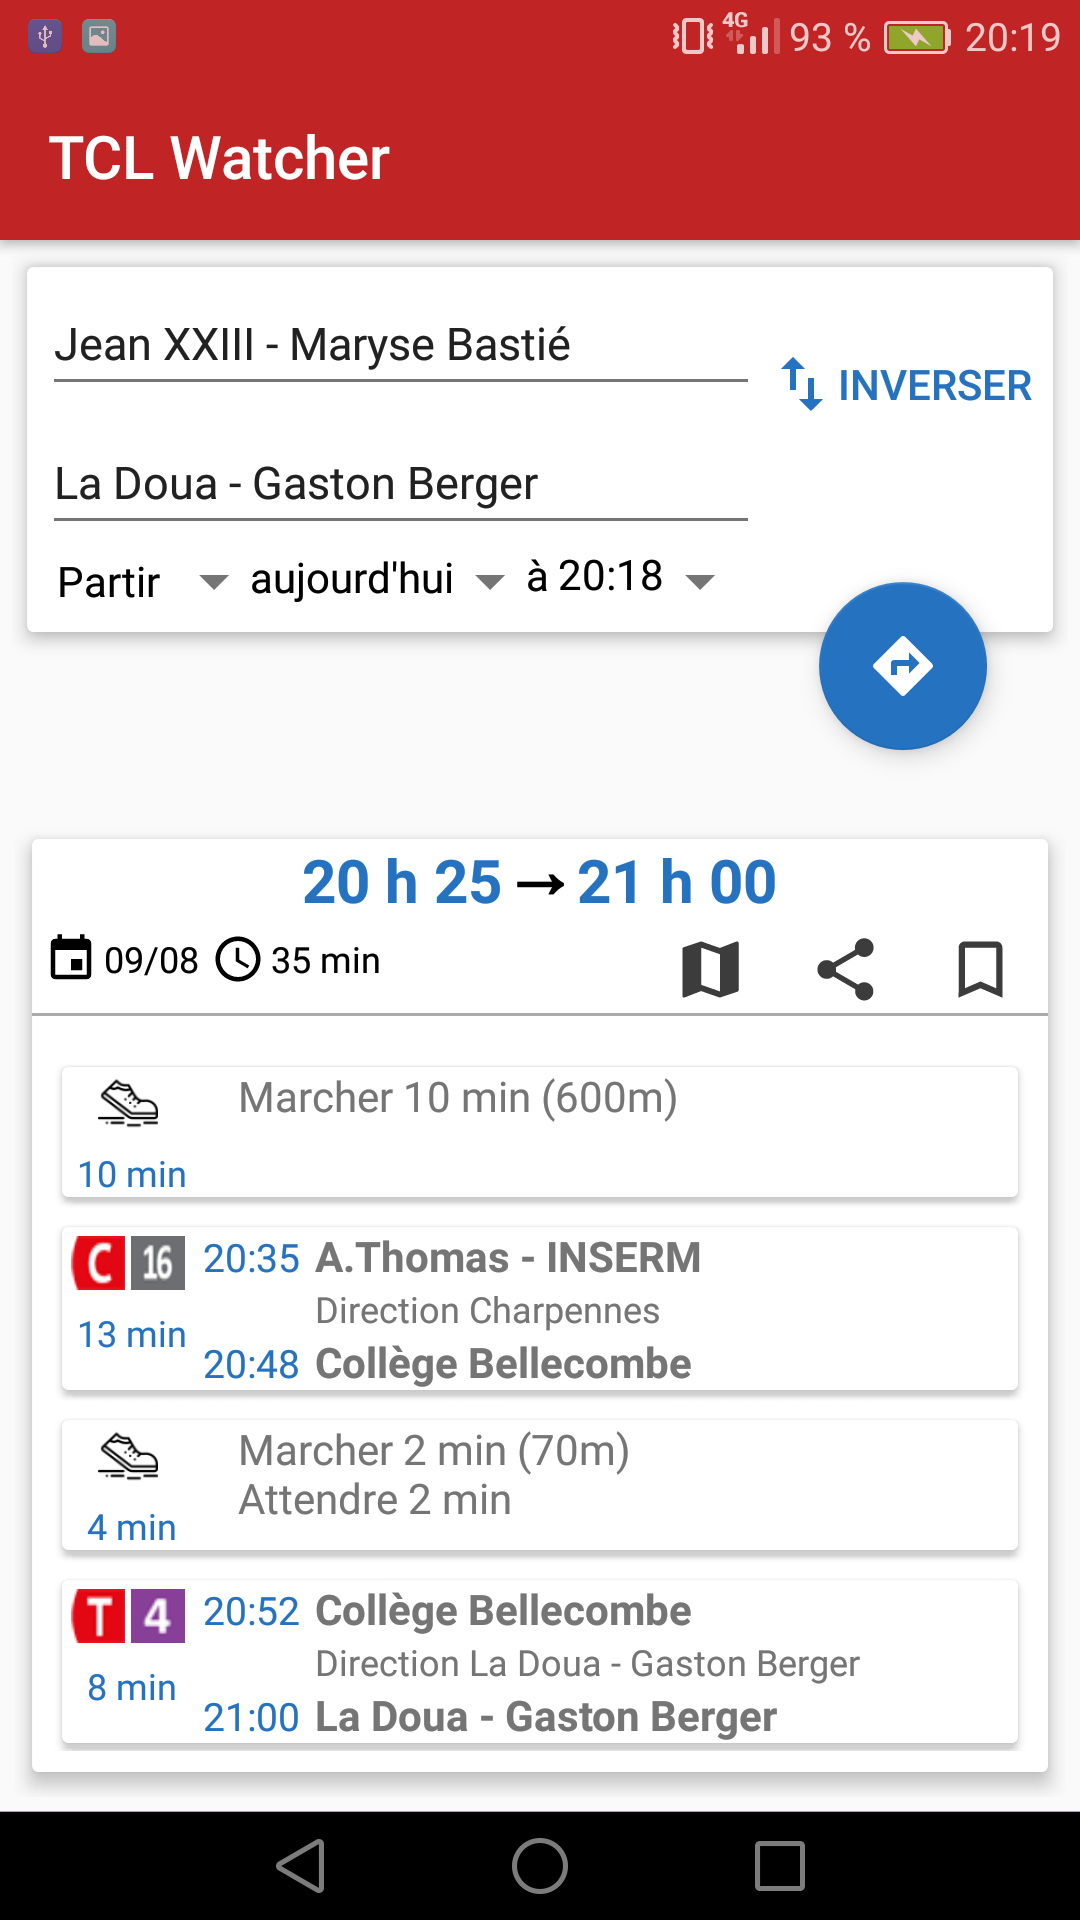
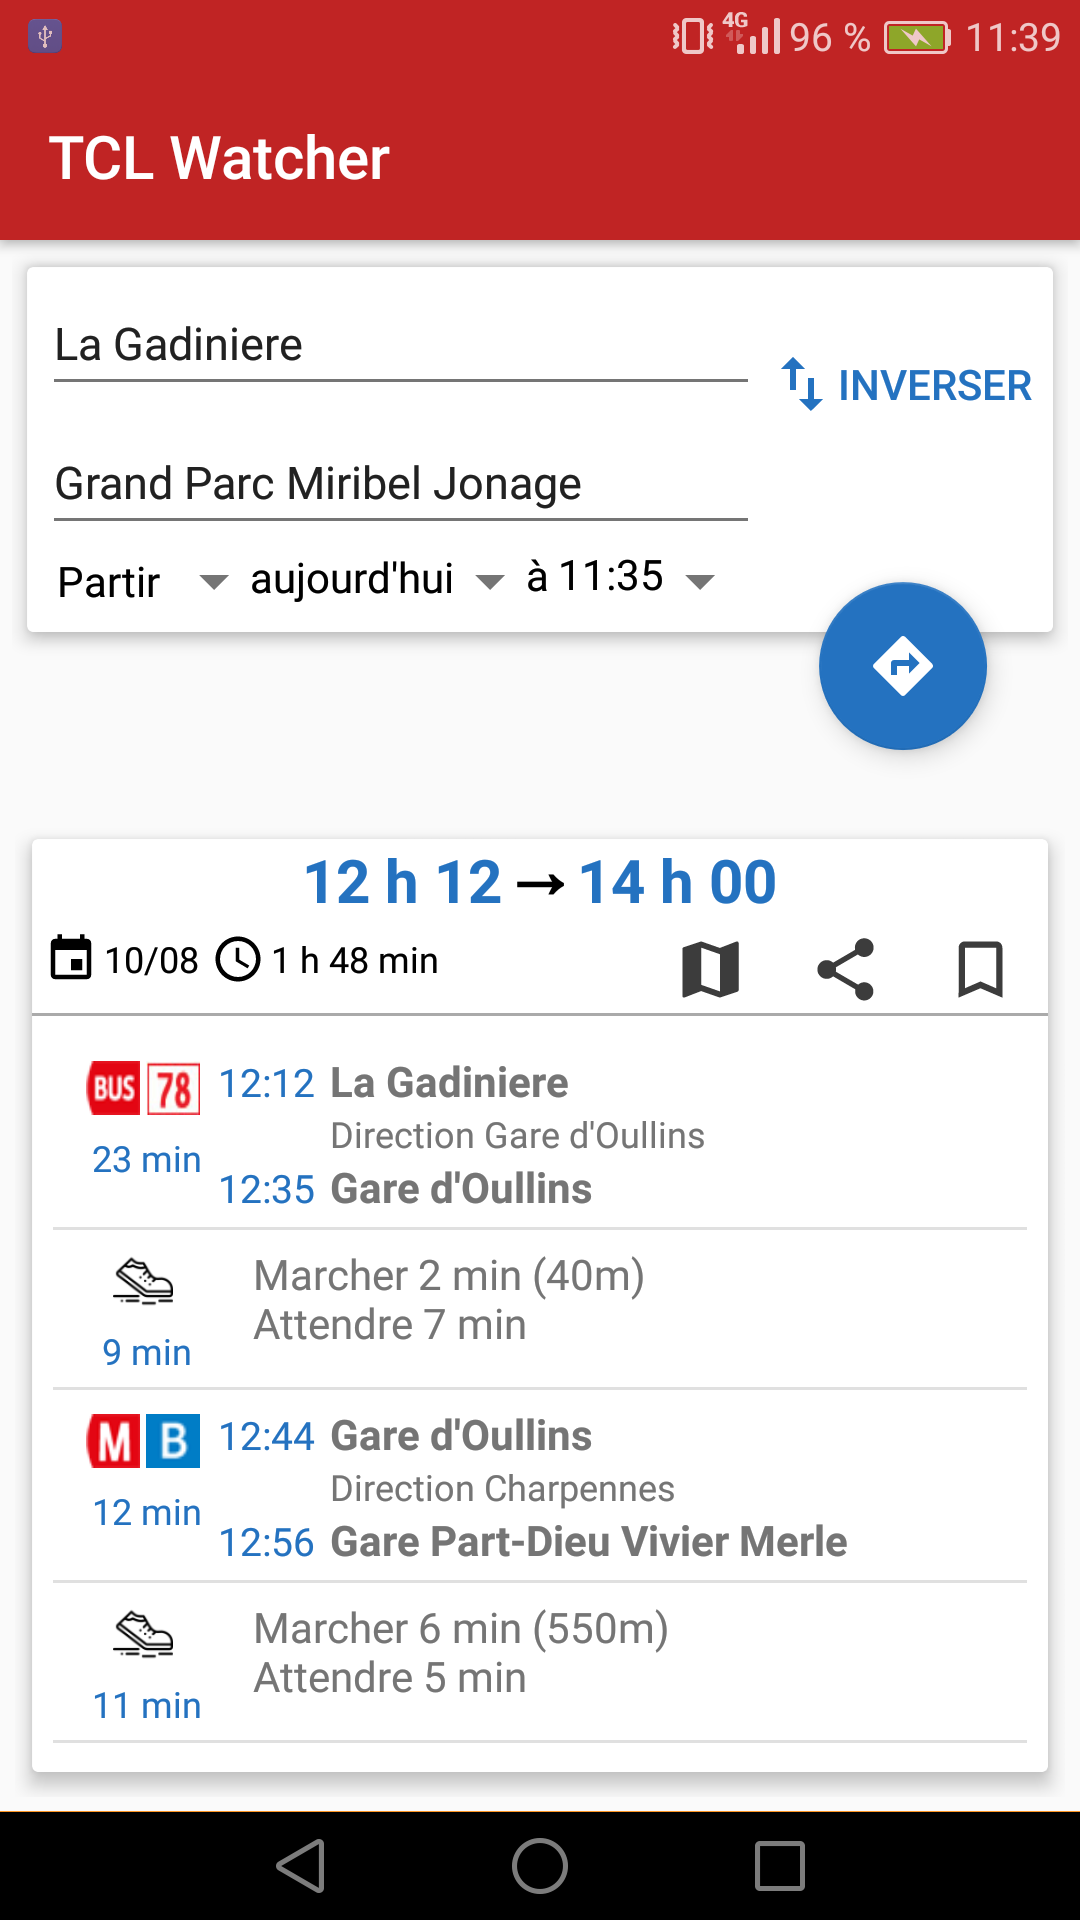
Removed Cards in RouteFragment

diff --git a/app/src/main/java/com/gueg/tclwatcher/routes/RouteFragment.kt b/app/src/main/java/com/gueg/tclwatcher/routes/RouteFragment.kt
@@ -11,7 +11,7 @@ import android.view.ViewGroup
 import android.widget.ImageButton
 import android.widget.TextView
 import com.gueg.tclwatcher.R
-import com.gueg.tclwatcher.OrientedItemDecoration
+import com.gueg.tclwatcher.VerticalDividerItemDecoration
 
 
 class RouteFragment : Fragment() {
@@ -60,17 +60,14 @@ class RouteFragment : Fragment() {
         recyclerView.layoutManager = LinearLayoutManager(context)
         adapter = SubRouteAdapter(route, routeFragmentListener)
         recyclerView.adapter = adapter
-        recyclerView.addItemDecoration(OrientedItemDecoration(30))
+        recyclerView.addItemDecoration(VerticalDividerItemDecoration(context!!, 15))
 
         recyclerView.overScrollMode = OVER_SCROLL_NEVER
 
         return rootView
     }
 
-    private fun addLeadingZero(date: String): String {
-        return if(date.toInt() < 10) "0$date"
-        else date
-    }
+    private fun addLeadingZero(date: String) = if(date.toInt() < 10) "0$date" else date
 
     fun with(routeFragmentListener: RouteFragmentListener): RouteFragment {
         this.routeFragmentListener = routeFragmentListener

diff --git a/app/src/main/java/com/gueg/tclwatcher/VerticalDividerItemDecoration.kt b/app/src/main/java/com/gueg/tclwatcher/VerticalDividerItemDecoration.kt
@@ -1,0 +1,15 @@
+package com.gueg.tclwatcher
+
+import android.content.Context
+import android.graphics.Rect
+import android.support.v7.widget.DividerItemDecoration
+import android.support.v7.widget.RecyclerView
+import android.view.View
+
+class VerticalDividerItemDecoration(context: Context, private val spaceHeight: Int) : DividerItemDecoration(context, VERTICAL) {
+
+    override fun getItemOffsets(outRect: Rect, view: View, parent: RecyclerView, state: RecyclerView.State) {
+        outRect.top = spaceHeight
+        outRect.bottom = spaceHeight
+    }
+}
